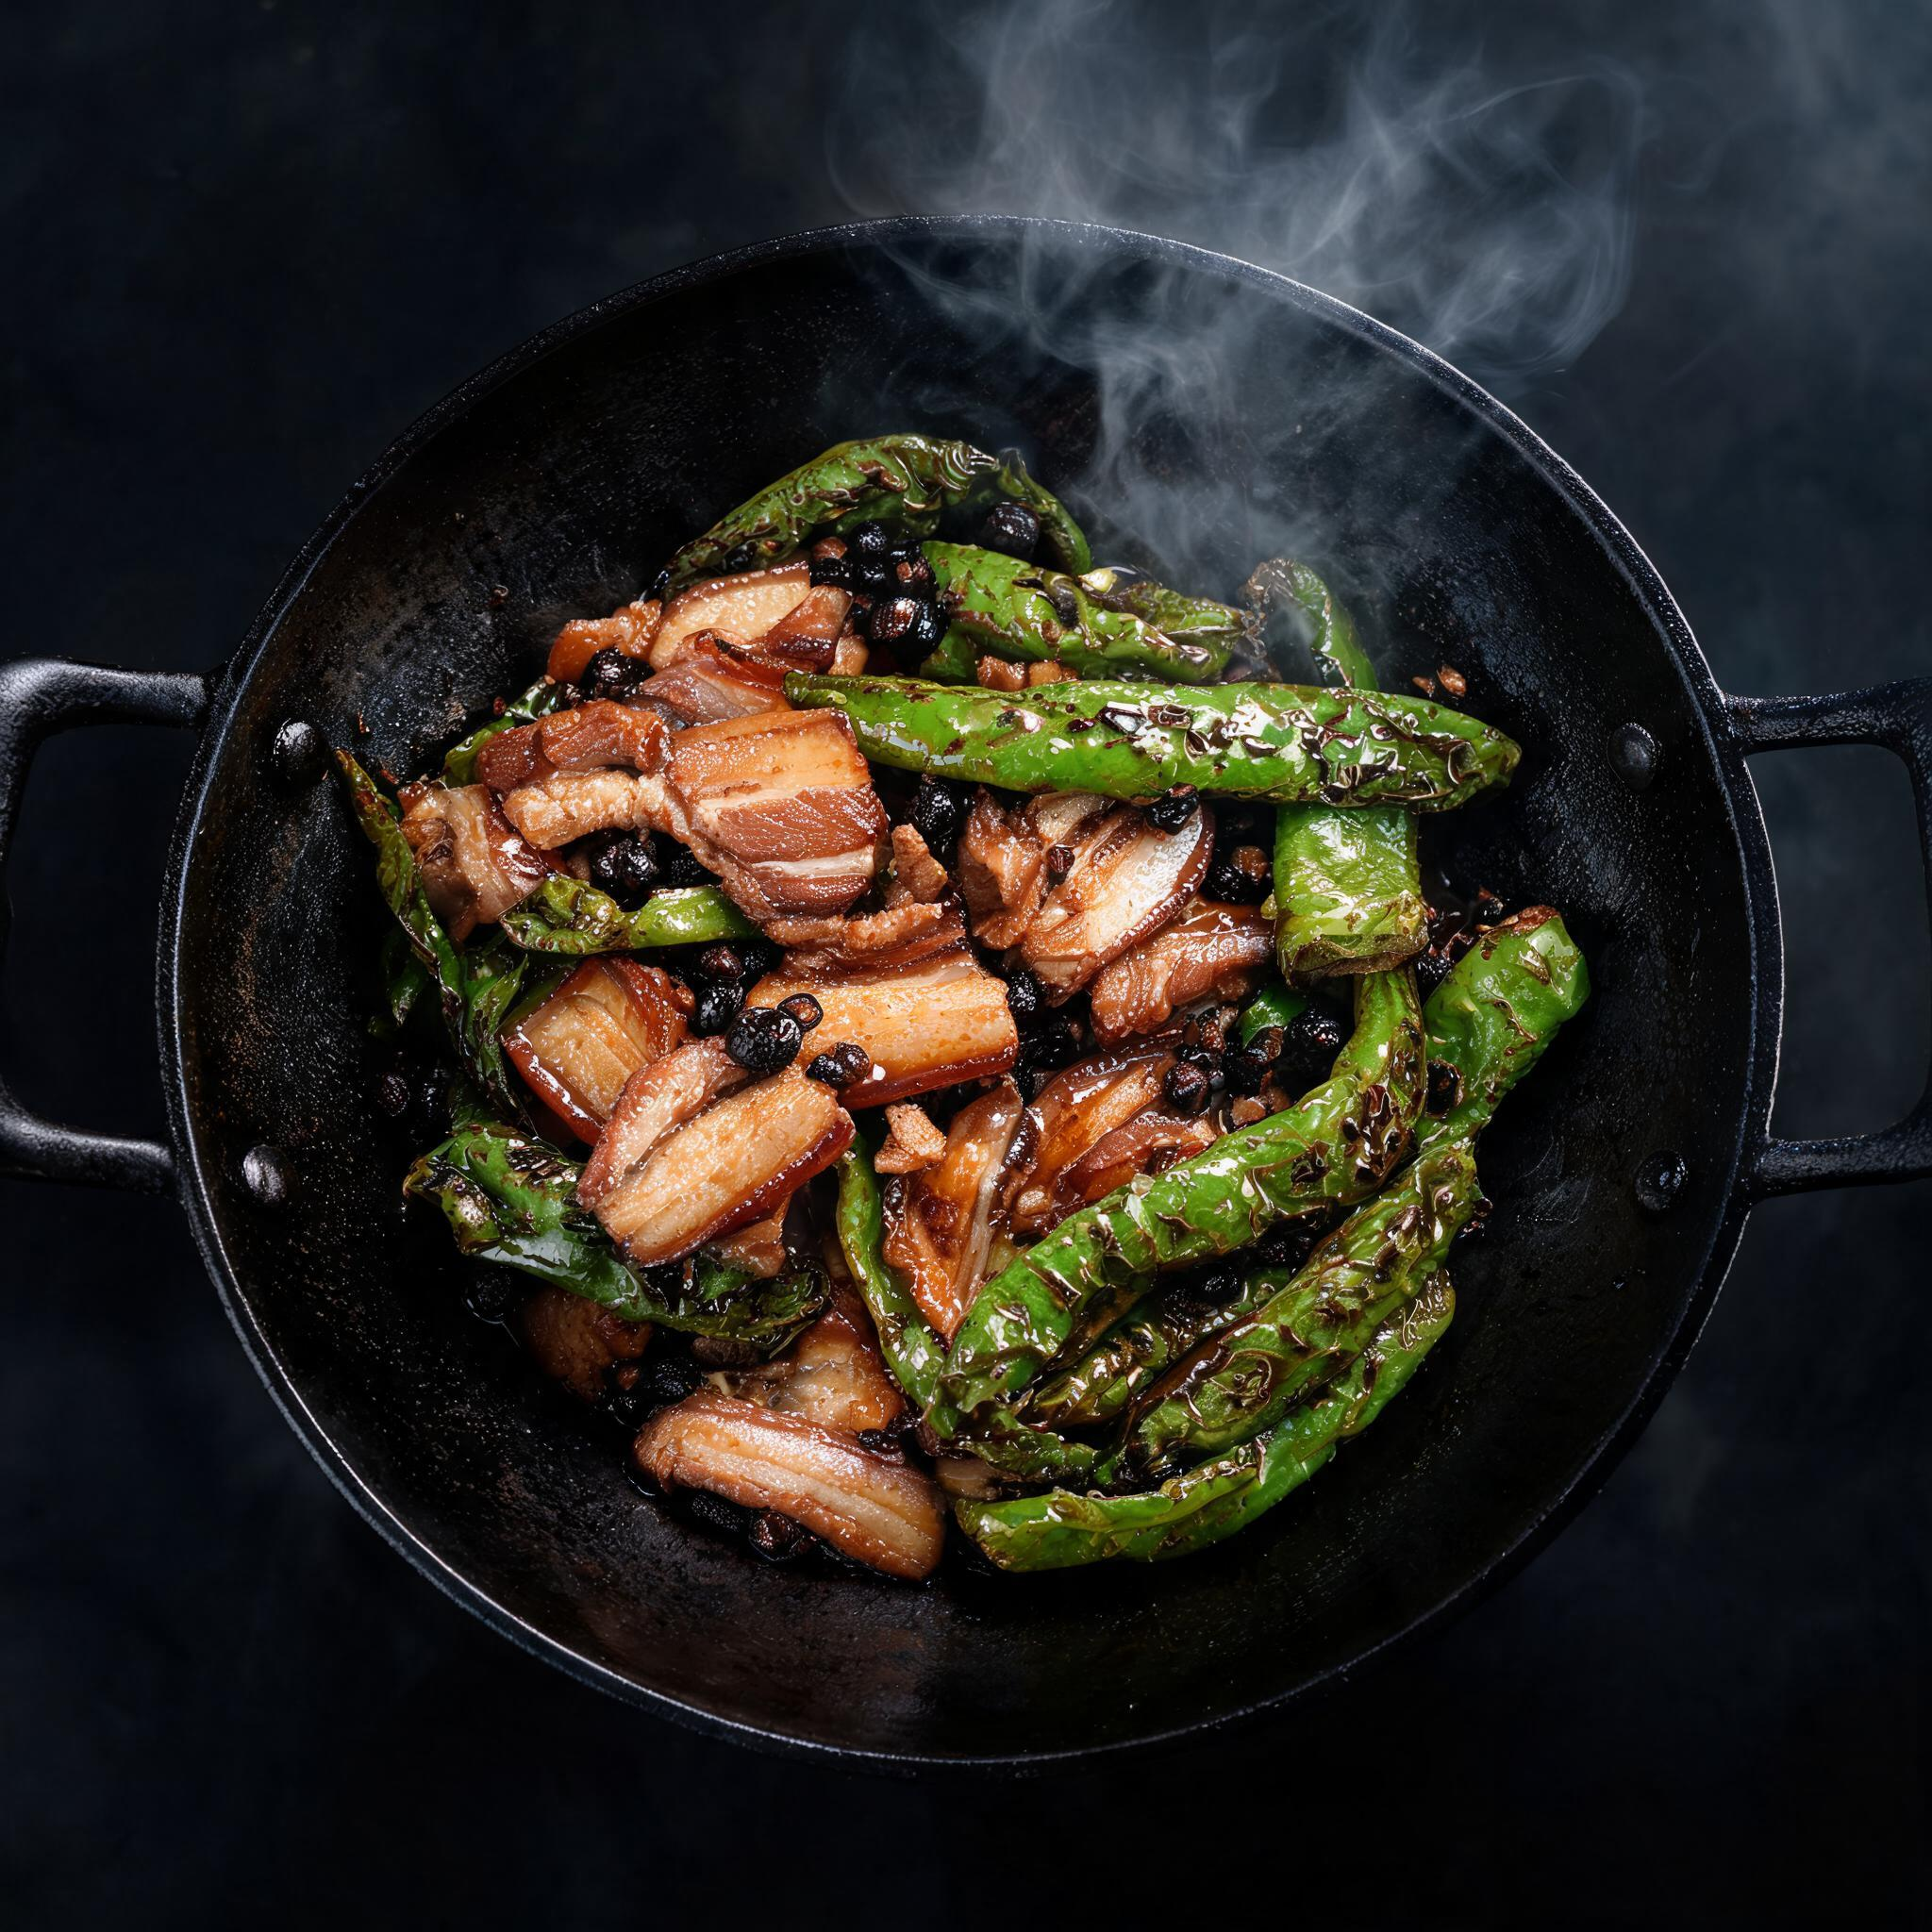
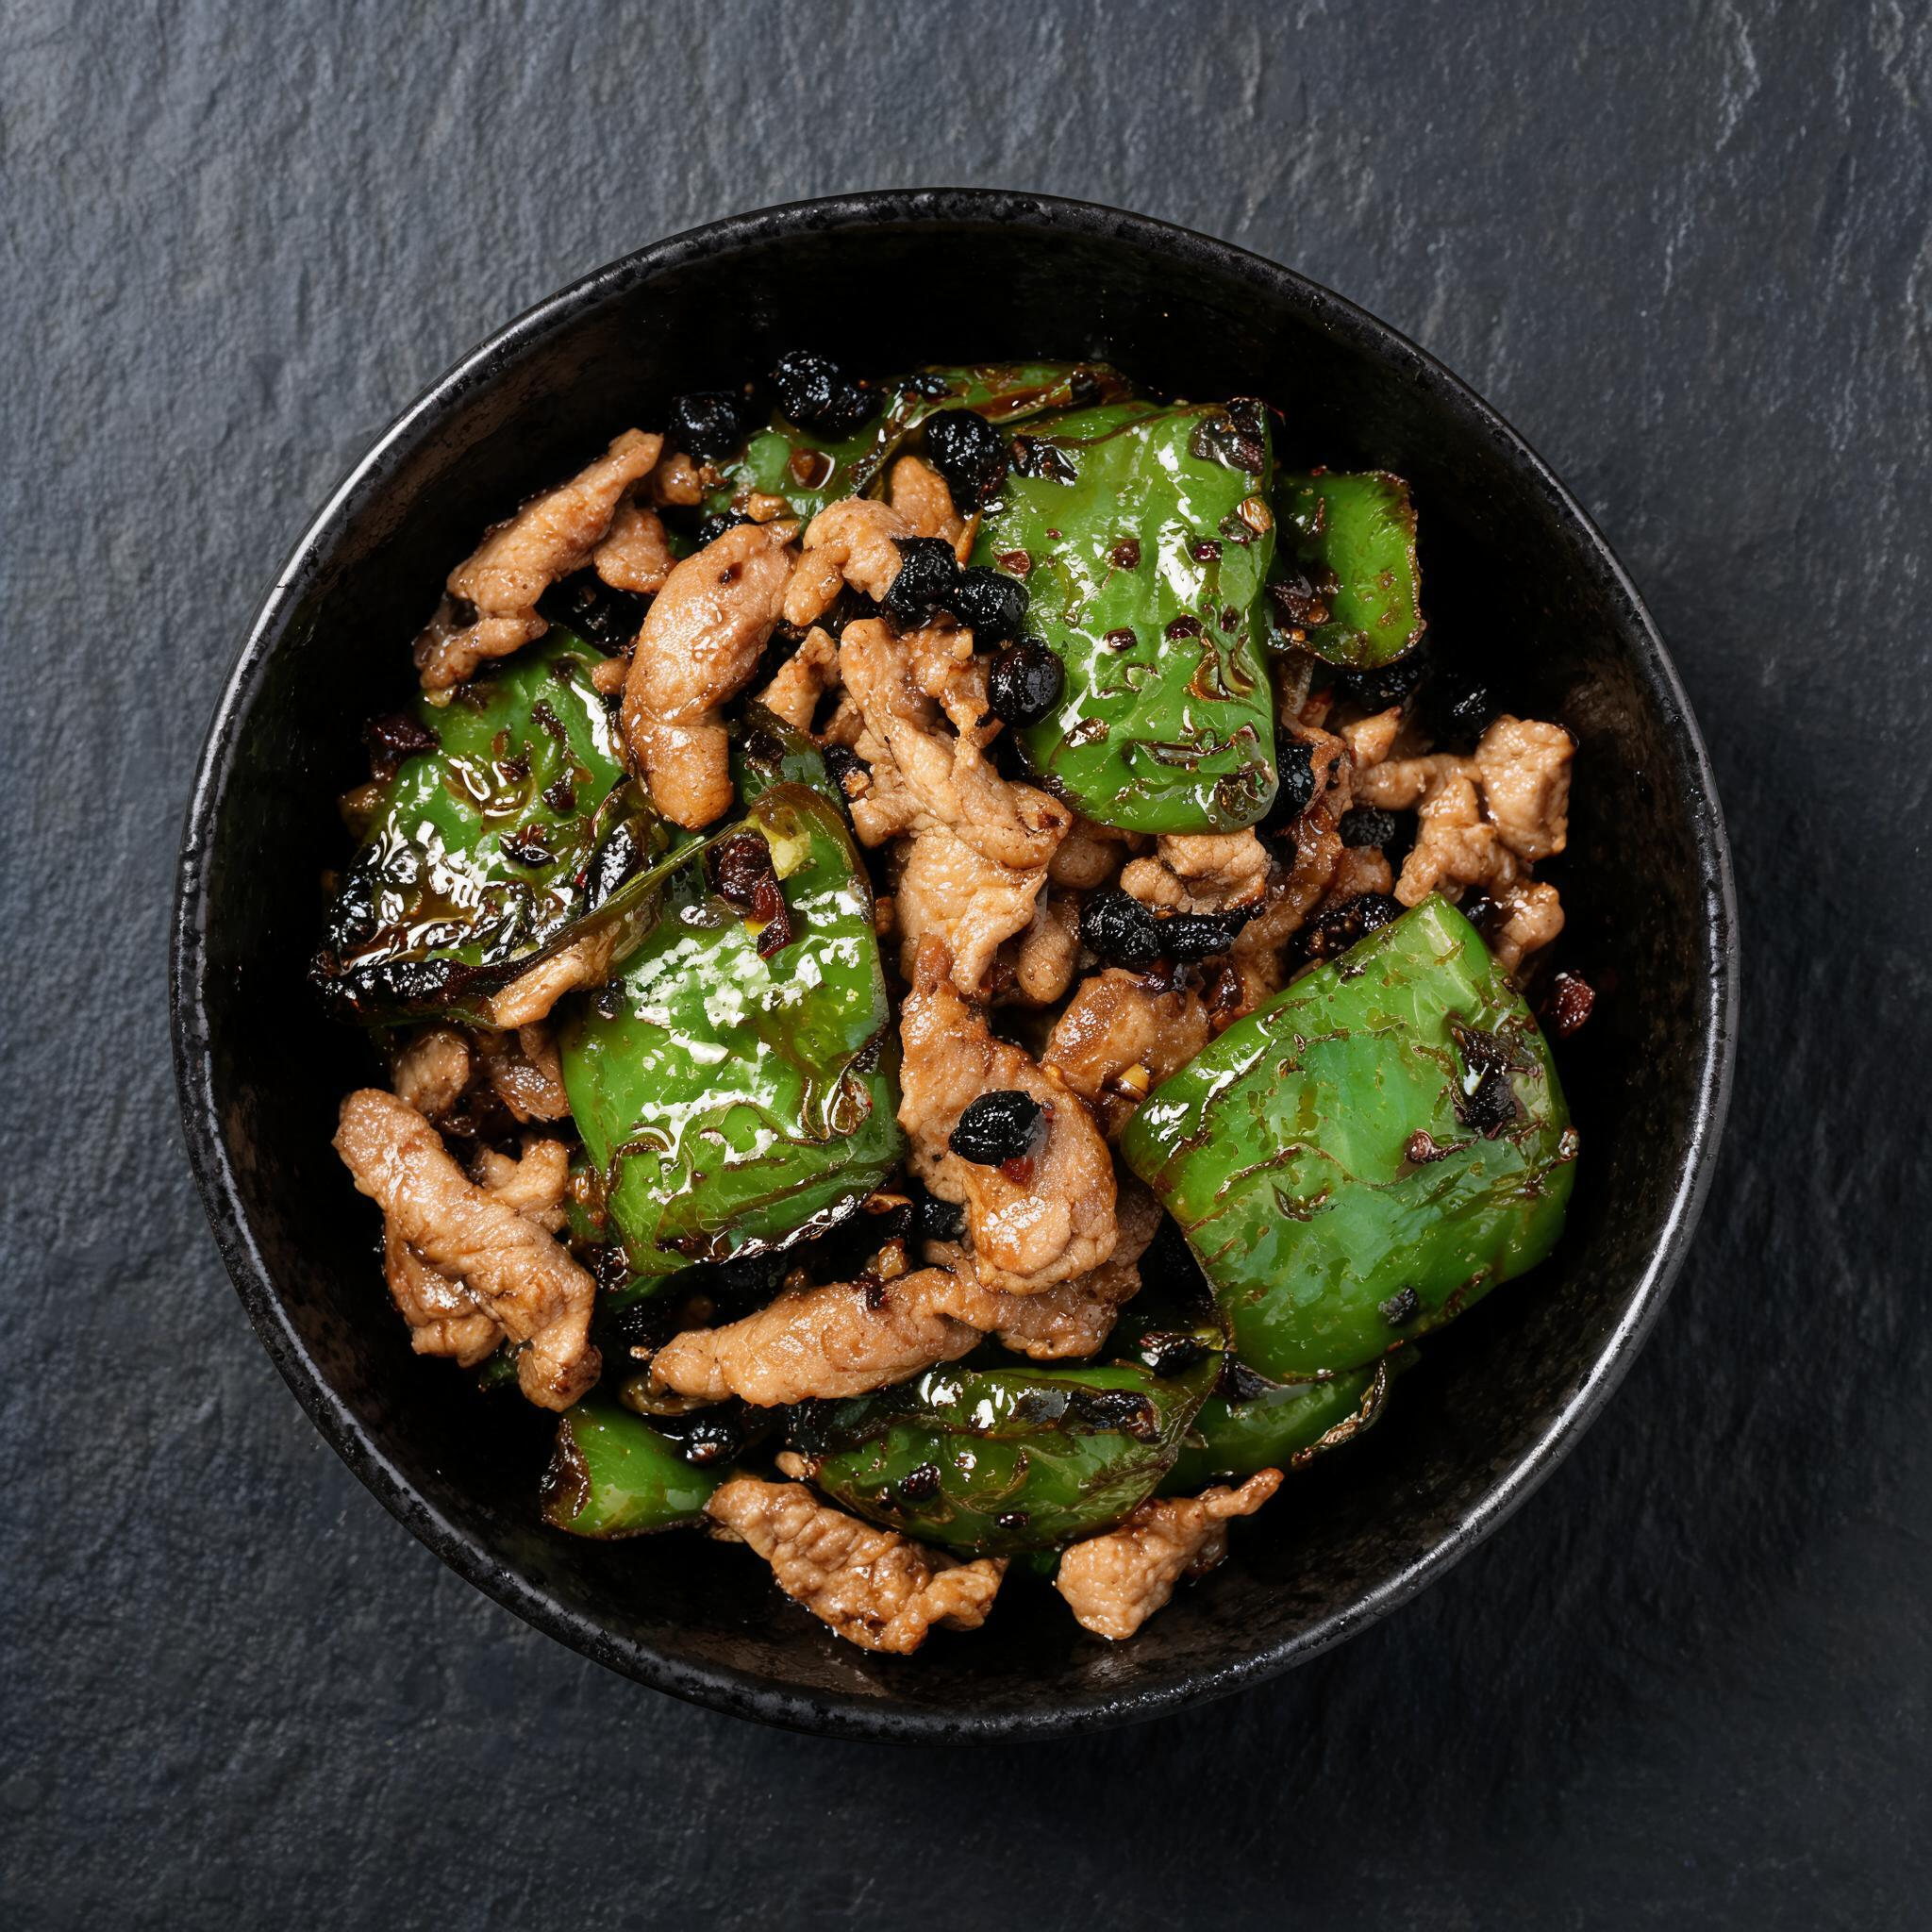
fix: reorder categories + lajiaochao recipe and image updated

diff --git a/index.html b/index.html
@@ -205,7 +205,7 @@
       { id:'pijiuchichi',category:'东北菜', name:'啤酒鸡翅',     price:0, desc:'啤酒焖出的鸡翅，骨酥肉烂满屋香。',  img:'./images/pijiuchichi.jpg', ingredients:'鸡翅中、啤酒、生抽、冰糖与姜片。',                         detail:'一锅慢慢焖出来的鸡翅，连骨头都吸饱了啤酒的麦香。',                nutrition:'碳水 15% · 蛋白质 42% · 脂肪 43%', taste:4.7, selectedCount:0, steps:['鸡翅洗净划刀，冷水下锅焯去血沫。','热油煎鸡翅至两面金黄，加姜片爆香。','倒入啤酒没过鸡翅，加生抽冰糖大火烧开。','转小火焖 20 分钟，收汁撒葱花出锅。'], tips:'啤酒选普通黄啤即可，焖的时间越长越入味。' },
       { id:'gongjinbaodan',category:'东北菜',name:'公瑾爆蛋',   price:0, desc:'整蛋下锅油煎，酱汁一淋满屋香。',    img:'./images/gongjinbaodan.jpg', ingredients:'鸡蛋（不打散）、生抽、老抽、蚝油、白糖、番茄酱、蒜片。',     detail:'蛋不用打散直接下锅，蛋黄还是流心的，裹着咸甜酱汁拌饭一绝。',       nutrition:'碳水 8% · 蛋白质 32% · 脂肪 60%', taste:4.8, selectedCount:0, steps:['蒜切片，生抽老抽蚝油白糖番茄酱加少许水搅成酱汁。','热锅倒油，鸡蛋整颗打入，中小火煎至蛋白焦边蛋黄半熟。','将蒜片撒在蛋周围爆香，倒入酱汁。「滋啦」一声，转大火收汁10秒。','连蛋带汁整盘滑入白瓷盘，趁热吃。'], tips:'蛋黄要保持流心才好吃，煎蛋时火别太大。' },
       { id:'huojimian',   category:'主食',  name:'火鸡面',       price:0, desc:'辣到灵魂出窍，芝士一融又被治愈。',  img:'./images/huojimian.jpg',   ingredients:'火鸡面饼、辣酱包、芝士片、海苔碎。',                       detail:'一口辣到冒汗，一口芝士拉丝，痛并快乐着就是爱情的味道。',          nutrition:'碳水 65% · 蛋白质 15% · 脂肪 20%', taste:4.5, selectedCount:0, options:['加鸡柳大人','不加鸡柳大人'], steps:['水烧开下面饼煮5分钟，捞出留少许面汤。','倒入辣酱包拌匀，铺上一片芝士。','小火焖到芝士融化，撒海苔碎。'], tips:'芝士要最后放，用余热闷化才拉丝。' },
-      { id:'lajiaochao',  category:'湘菜',  name:'辣椒炒肉',     price:0, desc:'螺丝椒煸出的焦香，五花肉片片入魂。',img:'./images/lajiaochao.jpg',  ingredients:'五花肉、螺丝椒、豆豉、蒜片与生抽。',                         detail:'锅气十足的湖南家常味，辣椒比肉还抢手。',                          nutrition:'碳水 10% · 蛋白质 28% · 脂肪 62%', taste:4.9, selectedCount:0, steps:['五花肉切薄片，螺丝椒斜切圈。','干锅不放油煸辣椒至虎皮状盛出。','热油下五花肉煸出油，加豆豉蒜片爆香。','倒入辣椒翻炒，生抽调味，大火翻匀出锅。'], tips:'辣椒先干煸出焦香是灵魂，肉要煸到微焦才香。' },
+      { id:'lajiaochao',  category:'湘菜',  name:'辣椒炒肉',     price:0, desc:'螺丝椒拍扁爆出焦香，瘦肉片片入魂。',img:'./images/lajiaochao.jpg',  ingredients:'纯瘦猪肉、螺丝椒（拍扁切滚刀块）、豆豉、蒜片与生抽。',     detail:'锅气十足的湖南家常味，拍扁的螺丝椒煸出虎皮，比肉还抢手。',        nutrition:'碳水 8% · 蛋白质 35% · 脂肪 57%', taste:4.9, selectedCount:0, steps:['纯瘦肉切薄片，加生抽料酒淀粉腌制。','螺丝椒用刀拍扁，手撕成不规则块。','干锅煸辣椒至起虎皮盛出。','热油滑肉片至变色，加豆豉蒜片爆香，倒回辣椒生抽翻匀出锅。'], tips:'辣椒一定要拍扁再煸，虎皮焦香是灵魂。' },
       { id:'xiaochao',    category:'湘菜',  name:'小炒黄牛肉',   price:0, desc:'黄牛肉嫩滑爽辣，一碗米饭根本不够。',img:'./images/xiaochao.jpg',     ingredients:'黄牛肉、小米辣、野山椒、香菜与蒜。',                         detail:'牛肉切得薄如纸，下锅十秒就熟，辣得过瘾又停不下筷子。',            nutrition:'碳水 6% · 蛋白质 48% · 脂肪 46%', taste:4.8, selectedCount:0, steps:['黄牛肉逆纹切薄片，加料酒生抽淀粉腌10分钟。','热油滑牛肉至变色立刻捞出。','爆香小米辣野山椒蒜末，倒入牛肉。','加香菜段大火翻匀，十秒出锅。'], tips:'牛肉千万别炒老，变色就捞，嫩滑的关键。' },
       { id:'gongbaojiding',category:'川菜', name:'宫保鸡丁',     price:0, desc:'花生脆鸡丁嫩，糊辣荔枝味一口入魂。',img:'./images/gongbaojiding.jpg',ingredients:'鸡腿肉、花生米、干辣椒、花椒、葱段。',                       detail:'糊辣味带着微甜微酸，花生米嘎嘣脆，是宫保鸡丁的灵魂。',            nutrition:'碳水 18% · 蛋白质 40% · 脂肪 42%', taste:4.9, selectedCount:0, steps:['鸡腿肉切丁，加盐料酒淀粉腌制。','调碗汁：生抽醋糖淀粉水搅匀。','小火炸花生至金黄酥脆。','热油爆香花椒干辣椒，下鸡丁炒变色，倒碗汁翻匀，撒花生葱段出锅。'], tips:'花生提前炸好最后放，保持酥脆不软。' },
       { id:'mifan',       category:'主食',  name:'米饭',         price:0, desc:'粒粒晶莹，最简单的幸福。',            img:'./images/mifan.jpg',        ingredients:'东北大米、清水。',                                         detail:'一碗热腾腾的白米饭，是所有好菜的归宿。',                        nutrition:'碳水 90% · 蛋白质 8% · 脂肪 2%', taste:5.0, selectedCount:0, steps:['大米淘洗两遍。','米水比例 1:1.2，浸泡20分钟。','电饭煲按下煮饭键。'], tips:'米提前泡一下更软糯，水比米高一指节刚好。' },
@@ -214,7 +214,7 @@
       { id:'jiemoxq',     category:'津菜',  name:'芥末虾球',     price:0, desc:'酥脆虾球裹芥末酱，呛出眼泪都是甜的。',img:'./images/jiemoxq.jpg',      ingredients:'大虾仁、芥末酱、沙拉酱、柠檬汁。',                         detail:'Q弹的虾球裹着微呛的芥末酱，一口一个停不下来。',                 nutrition:'碳水 12% · 蛋白质 55% · 脂肪 33%', taste:4.8, selectedCount:0, steps:['虾仁开背去虾线，加盐料酒腌制。','裹薄淀粉，油炸至金黄酥脆捞出。','芥末酱沙拉酱柠檬汁拌匀成酱。','虾球裹酱装盘，点缀柠檬片。'], tips:'虾仁开背炸出来才卷成球，酱要现拌现吃。' }
     ];
 
-    const categories = ['东北菜','川菜','湘菜','鲁菜','饮品','甜品','主食','津菜'];
+    const categories = ['东北菜','津菜','川菜','湘菜','鲁菜','饮品','甜品','主食'];
     let activeCategory = categories[0];
     let cart = JSON.parse(localStorage.getItem('sweetheart-cart') || '{}');
     let cartOptions = JSON.parse(localStorage.getItem('sweetheart-cart-options') || '{}');